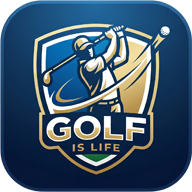
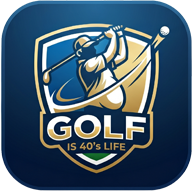
Add files via upload

diff --git a/index.html b/index.html
@@ -6,10 +6,10 @@
 <meta name="theme-color" content="#1a3a28">
 <meta name="apple-mobile-web-app-capable" content="yes">
 <meta name="apple-mobile-web-app-status-bar-style" content="black-translucent">
-<meta name="apple-mobile-web-app-title" content="Golf Is Life">
+<meta name="apple-mobile-web-app-title" content="Golf">
 <link rel="manifest" href="manifest.json">
-<link rel="apple-touch-icon" href="icon-192.png">
-<title>Golf Is Life</title>
+<link rel="apple-touch-icon" href="icon192.png">
+<title>Golf is 40's Life</title>
 <link href="https://fonts.googleapis.com/css2?family=Noto+Sans+KR:wght@300;400;500;600;700&family=Playfair+Display:wght@500;700&display=swap" rel="stylesheet">
 <script src="https://cdn.jsdelivr.net/npm/chart.js@4.4.0/dist/chart.umd.min.js"></script>
 <style>
@@ -31,7 +31,7 @@
 .s-birdie{color:#1d9e75!important;font-weight:700!important}.s-par{color:var(--text)!important}.s-bogey{color:var(--gold)!important}.s-dbl{color:var(--danger)!important}.s-eagle{color:#185fa5!important;font-weight:700!important}
 .pbox{border:1px solid var(--border);border-radius:var(--r);padding:12px;margin-bottom:8px;background:#fafdf9}.pbox-top{display:flex;align-items:center;gap:8px;margin-bottom:8px}.pbox-av{width:28px;height:28px;border-radius:50%;display:flex;align-items:center;justify-content:center;font-size:11px;font-weight:500;color:#fff;flex-shrink:0}.pbox-name{font-size:13px;font-weight:500;flex:1}.pbox-mode{display:flex;gap:4px;margin-bottom:8px}.pbox-mode button{flex:1}
 .ac-wrap{position:relative}.ac-list{position:absolute;top:100%;left:0;right:0;background:var(--card);border:1px solid var(--border);border-radius:var(--rs);max-height:150px;overflow-y:auto;z-index:50;display:none}.ac-list.on{display:block}.ac-item{padding:8px 12px;font-size:12px;cursor:pointer}.ac-item:hover{background:var(--g100)}
-.sgrid{display:grid;grid-template-columns:1fr 1fr;gap:8px;margin-bottom:10px}.sbox{background:var(--card);border:1px solid var(--border);border-radius:var(--r);padding:12px;text-align:center}.sbox .sv{font-size:20px;font-weight:500;color:var(--g700)}.sbox .sl{font-size:10px;color:var(--sub);margin-top:1px}.chart-box{background:var(--card);border:1px solid var(--border);border-radius:var(--r);padding:14px;margin-bottom:10px}.chart-box .ct-t{font-size:12px;font-weight:500;margin-bottom:8px;color:var(--g800)}canvas{max-height:240px}
+.sgrid{display:grid;grid-template-columns:1fr 1fr;gap:8px;margin-bottom:10px}.sgrid3{display:grid;grid-template-columns:1fr 1fr 1fr;gap:8px;margin-bottom:10px}.sbox{background:var(--card);border:1px solid var(--border);border-radius:var(--r);padding:12px;text-align:center}.sbox .sv{font-size:20px;font-weight:500;color:var(--g700)}.sbox .sl{font-size:10px;color:var(--sub);margin-top:1px}.chart-box{background:var(--card);border:1px solid var(--border);border-radius:var(--r);padding:14px;margin-bottom:10px}.chart-box .ct-t{font-size:12px;font-weight:500;margin-bottom:8px;color:var(--g800)}canvas{max-height:240px}
 .det-hdr{display:flex;justify-content:space-between;align-items:center;margin-bottom:12px}.det-back{background:none;border:none;font-size:12px;color:var(--g600);cursor:pointer;font-family:'Noto Sans KR'}
 .toast{position:fixed;bottom:24px;left:50%;transform:translateX(-50%);background:var(--g800);color:#fff;padding:10px 20px;border-radius:24px;font-size:12px;z-index:300;opacity:0;transition:opacity .3s;pointer-events:none}.toast.on{opacity:1}
 .ld{display:flex;align-items:center;justify-content:center;padding:40px;color:var(--sub);font-size:12px;flex-direction:column;gap:10px}.golf-ball{width:36px;height:36px;border-radius:50%;background:radial-gradient(circle at 35% 35%,#fff 0%,#f0f0e8 40%,#ddd 100%);box-shadow:inset -3px -3px 6px rgba(0,0,0,.1),1px 2px 4px rgba(0,0,0,.15);position:relative;animation:bounce .6s ease-in-out infinite}.golf-ball::after{content:'';position:absolute;top:30%;left:25%;width:50%;height:40%;background:radial-gradient(circle,rgba(0,0,0,.06) 1px,transparent 1px);background-size:5px 5px;border-radius:50%}@keyframes bounce{0%,100%{transform:translateY(0)}50%{transform:translateY(-12px)}}
@@ -41,12 +41,12 @@
 </style>
 </head>
 <body>
-<div class="auth-wrap" id="auth"><div class="auth-box"><div class="auth-logo"><div class="ic" style="width:56px;height:56px;font-size:24px;background:linear-gradient(135deg,#1a3a28,#27654a);color:#c9a84c;letter-spacing:-1px;font-family:'Playfair Display',serif;font-weight:700">G</div><h1 style="font-size:20px;letter-spacing:2px">GOLF IS LIFE</h1><p>라운딩 기록 · 스코어 · 통계</p></div>
+<div class="auth-wrap" id="auth"><div class="auth-box"><div class="auth-logo"><img src="icon-192.png" style="width:72px;height:72px;border-radius:16px;margin-bottom:8px" onerror="this.style.display='none'"><h1 style="font-size:18px;letter-spacing:2px;font-variant-numeric:lining-nums">GOLF IS 40's LIFE</h1><p>라운딩 기록 · 스코어 · 통계</p></div>
 <div id="loginF"><div id="loginErr" class="auth-err hide"></div><div class="fg"><label>아이디</label><input id="lId" type="text" placeholder="아이디"></div><div class="fg"><label>비밀번호</label><input id="lPw" type="password" placeholder="비밀번호"></div><button class="auth-btn" onclick="doLogin()">로그인</button><div class="auth-sw">계정이 없으신가요? <a onclick="showReg()">회원가입</a></div></div>
 <div id="regF" class="hide"><div id="regErr" class="auth-err hide"></div><div class="fg"><label>아이디 (3자 이상)</label><input id="rId" type="text"></div><div class="fg"><label>비밀번호 (4자 이상)</label><input id="rPw" type="password"></div><div class="fg"><label>이름</label><input id="rNm" type="text" placeholder="표시 이름"></div><div class="fg"><label>멤버 연결</label><input id="rMem" type="text" placeholder="골프 멤버 이름 (예: 남기섭)"></div><button class="auth-btn" onclick="doReg()">회원가입</button><div class="auth-sw">이미 계정이 있으신가요? <a onclick="showLogin()">로그인</a></div></div></div></div>
 
 <div class="app" id="app">
-<div class="hdr"><div class="hdr-top"><div class="logo" onclick="loadData()" style="cursor:pointer"><div class="ic" style="background:linear-gradient(135deg,var(--gold),#e8d48b);font-family:'Playfair Display',serif;font-weight:700;color:var(--g800);font-size:14px">G</div><h1 style="font-size:15px;letter-spacing:1.5px">GOLF IS LIFE</h1></div><div class="hdr-r"><div class="ubadge"><div class="dot"></div><span id="uname"></span></div><button class="ibtn" onclick="doLogout()">⏻</button></div></div>
+<div class="hdr"><div class="hdr-top"><div class="logo" onclick="loadData()" style="cursor:pointer"><img src="icon-192.png" style="width:30px;height:30px;border-radius:6px"><h1 style="font-size:14px;letter-spacing:1px;font-variant-numeric:lining-nums">GOLF IS 40's LIFE</h1></div><div class="hdr-r"><div class="ubadge"><div class="dot"></div><span id="uname"></span></div><button class="ibtn" onclick="doLogout()">⏻</button></div></div>
 <div class="tabs"><button class="tab on" data-t="list" onclick="goTab('list')">📋 기록</button><button class="tab" data-t="add" onclick="goTab('add')">➕ 입력</button><button class="tab" data-t="stats" onclick="goTab('stats')">📊 통계</button></div></div>
 <div class="toast" id="toast"></div>
 <div class="loading-overlay" id="loadingOv"><div class="golf-ball"></div><p id="loadingMsg">저장중...</p></div>
@@ -61,7 +61,16 @@
 <div class="card"><div class="card-t" style="justify-content:space-between"><span>👥 참가자</span><button class="btn btn-s btn-sm" onclick="addPlayer()">+ 추가</button></div>
 <div id="participants"></div></div>
 <button class="btn btn-p btn-blk" onclick="saveRound()" style="padding:14px;font-size:14px" id="saveBtn">저장</button></div>
-<!-- 통계 --><div class="page" id="pg-stats"><div class="sgrid" id="statBoxes"></div><div class="chart-box"><div class="ct-t">📈 스코어 추이</div><canvas id="chTrend"></canvas></div><div class="chart-box"><div class="ct-t">⛳ 홀별 평균 오버파</div><canvas id="chHole"></canvas></div><div class="chart-box"><div class="ct-t">👥 동반자별 내 평균</div><canvas id="chBuddy"></canvas></div></div>
+<!-- 통계 --><div class="page" id="pg-stats">
+<div class="fbar"><select class="fsel" id="stYr" onchange="renderStats()"></select></div>
+<div class="sgrid3" id="statBoxes"></div>
+<div class="chart-box"><div class="ct-t">📈 스코어 추이</div><canvas id="chTrend"></canvas></div>
+<div class="chart-box"><div class="ct-t">🎯 스코어 분포</div><canvas id="chDist"></canvas></div>
+<div class="card" id="growthCard"></div>
+<div class="card" id="halfCard"></div>
+<div class="chart-box"><div class="ct-t">🏌 골프장별 내 평균</div><canvas id="chCourse"></canvas></div>
+<div id="vsCards"></div>
+</div>
 <!-- 상세 --><div class="page" id="pg-detail"><div class="det-hdr"><button class="det-back" onclick="goTab('list')">← 목록</button><div style="display:flex;gap:4px"><button class="btn btn-s btn-sm" onclick="editRound()">수정</button><button class="btn btn-d btn-sm" onclick="delRound()">삭제</button></div></div><div id="detContent"></div></div>
 <!-- 홀별 수정 --><div class="page" id="pg-editsc"><div class="det-hdr"><button class="det-back" onclick="showDetail(editScoreData?.score?.round_id)">← 돌아가기</button></div><div class="card"><div class="card-t">🏌 내 홀별 스코어 입력</div><div id="editScCard"></div><button class="btn btn-p btn-blk" style="margin-top:12px" onclick="saveMyScore()">저장</button></div></div>
 </div></div>
@@ -221,20 +230,103 @@ async function saveRound(){
     hideL();if(r.status==='ok'){toast(isEdit?'수정 완료!':'저장 완료!');initForm();await loadData();goTab('list')}else toast(r.message)}catch(e){hideL();toast('저장 실패')}}
 
 // ===== STATS =====
-function renderStats(){const m=mn();if(!m){$('statBoxes').innerHTML='<div class="empty">멤버 연결 후 이용 가능</div>';return}
-  const ms=D.scores.filter(s=>s.이름===m);if(!ms.length){$('statBoxes').innerHTML='<div class="empty">기록이 없습니다</div>';return}
+let stYear='전체';
+function renderStats(){
+  const m=mn();if(!m){$('statBoxes').innerHTML='<div class="empty">멤버 연결 후 이용 가능</div>';return}
+
+  // 연도 필터
+  const allMs=D.scores.filter(s=>s.이름===m);
+  const yrs=['전체',...new Set(allMs.map(s=>{const r=D.rounds.find(x=>x.round_id===s.round_id);return r?String(r.날짜||'').substring(0,4):''}).filter(Boolean))].sort((a,b)=>a==='전체'?-1:b==='전체'?1:b.localeCompare(a));
+  const sel=$('stYr');sel.innerHTML=yrs.map(y=>`<option value="${y}"${y===stYear?' selected':''}>${y==='전체'?'전체':y+'년'}</option>`).join('');
+  stYear=sel.value;
+
+  // 필터된 데이터
+  const ms=allMs.filter(s=>{if(stYear==='전체')return true;const r=D.rounds.find(x=>x.round_id===s.round_id);return r&&String(r.날짜||'').startsWith(stYear)});
+  if(!ms.length){$('statBoxes').innerHTML='<div class="empty">기록이 없습니다</div>';$('growthCard').innerHTML='';$('halfCard').innerHTML='';$('vsCards').innerHTML='';return}
+
   const tots=ms.map(s=>Number(s.total)).filter(v=>v>0),cnt=tots.length;
-  const avg=cnt?Math.round(tots.reduce((a,b)=>a+b,0)/cnt*10)/10:0,best=cnt?Math.min(...tots):'-';
-  let tpp=0;ms.forEach(s=>{const r=D.rounds.find(x=>x.round_id===s.round_id);if(r)tpp+=pp(r)});const avgpp=cnt?Math.round(tpp/cnt):0;
-  $('statBoxes').innerHTML=`<div class="sbox"><div class="sv">${cnt}</div><div class="sl">총 라운딩</div></div><div class="sbox"><div class="sv">${avg}</div><div class="sl">평균</div></div><div class="sbox"><div class="sv" style="color:var(--gold)">${best}</div><div class="sl">베스트</div></div><div class="sbox"><div class="sv" style="font-size:16px">${avgpp.toLocaleString()}</div><div class="sl">평균비용(1인)</div></div>`;
+  const avg=cnt?Math.round(tots.reduce((a,b)=>a+b,0)/cnt*10)/10:0;
+  const best=cnt?Math.min(...tots):'-',worst=cnt?Math.max(...tots):'-';
+  let tpp=0,totalCost=0;ms.forEach(s=>{const r=D.rounds.find(x=>x.round_id===s.round_id);if(r){const p=pp(r);tpp+=p;const n=gs(r.round_id).length||1;totalCost+=Number(r.필드비||0)+(Number(r.캐디비||0)+Number(r.카트비||0))/n}});
+  const avgpp=cnt?Math.round(tpp/cnt):0;
+
+  // 요약 박스 3x2
+  $('statBoxes').innerHTML=`
+    <div class="sbox"><div class="sv">${avg}</div><div class="sl">평균</div></div>
+    <div class="sbox"><div class="sv" style="color:var(--g500)">${best}</div><div class="sl">베스트</div></div>
+    <div class="sbox"><div class="sv" style="color:var(--danger)">${worst}</div><div class="sl">워스트</div></div>
+    <div class="sbox"><div class="sv">${cnt}</div><div class="sl">총 라운딩</div></div>
+    <div class="sbox"><div class="sv" style="font-size:16px">${avgpp.toLocaleString()}</div><div class="sl">평균비용(1인)</div></div>
+    <div class="sbox"><div class="sv" style="font-size:16px">${Math.round(totalCost).toLocaleString()}</div><div class="sl">총비용</div></div>`;
+
+  // 스코어 추이
   const td=ms.filter(s=>Number(s.total)>0).map(s=>{const r=D.rounds.find(x=>x.round_id===s.round_id);return{d:r?.날짜||'',t:Number(s.total)}}).sort((a,b)=>a.d.localeCompare(b.d));
   mkC('chTrend','line',{labels:td.map(x=>fd(x.d)),datasets:[{label:'스코어',data:td.map(x=>x.t),borderColor:'#2d8a5e',backgroundColor:'#2d8a5e20',tension:.3,pointRadius:4,fill:true}]},{plugins:{legend:{display:false}},scales:{y:{min:Math.min(...td.map(x=>x.t))-5}}});
-  const hs=Array(18).fill(0),hc=Array(18).fill(0);ms.forEach(s=>{for(let i=1;i<=18;i++){const v=s['h'+i];if(v!==''&&v!==undefined&&v!==null){hs[i-1]+=Number(v);hc[i-1]++}}});
-  const ha=hs.map((s,i)=>hc[i]?Math.round(s/hc[i]*10)/10:0);
-  mkC('chHole','bar',{labels:Array.from({length:18},(_,i)=>(i+1)+''),datasets:[{data:ha,backgroundColor:ha.map(v=>v<=0.5?'#2d8a5e':v<=1.5?'#c9a84c':'#d44040'),borderRadius:4}]},{plugins:{legend:{display:false}},scales:{y:{beginAtZero:true}}});
-  const bd={};ms.forEach(s=>{D.scores.filter(o=>o.round_id===s.round_id&&o.이름!==m).forEach(o=>{if(!bd[o.이름])bd[o.이름]={c:0,s:0};bd[o.이름].c++;bd[o.이름].s+=Number(s.total)})});
-  const be=Object.entries(bd).filter(([,v])=>v.c>0).sort((a,b)=>b[1].c-a[1].c);
-  if(be.length)mkC('chBuddy','bar',{labels:be.map(b=>b[0]),datasets:[{label:'내 평균',data:be.map(b=>Math.round(b[1].s/b[1].c*10)/10),backgroundColor:'#c9a84c',borderRadius:4},{label:'라운드수',data:be.map(b=>b[1].c),backgroundColor:'#2d8a5e',borderRadius:4}]},{indexAxis:'y',plugins:{legend:{position:'bottom',labels:{boxWidth:10,font:{size:10}}}}});
+
+  // 스코어 분포 도넛
+  const dist={70:0,80:0,90:0,100:0,110:0};tots.forEach(t=>{if(t<80)dist[70]++;else if(t<90)dist[80]++;else if(t<100)dist[90]++;else if(t<110)dist[100]++;else dist[110]++});
+  mkC('chDist','doughnut',{labels:['70대','80대','90대','100대','110+'],datasets:[{data:[dist[70],dist[80],dist[90],dist[100],dist[110]],backgroundColor:['#185fa5','#2d8a5e','#c9a84c','#e67e22','#d44040'],borderWidth:2}]},{plugins:{legend:{position:'bottom',labels:{boxWidth:12,font:{size:11}}}}});
+
+  // 최근 5 vs 이전 5
+  if(td.length>=5){
+    const recent=td.slice(-5).map(x=>x.t),prev=td.slice(-10,-5);
+    const rAvg=Math.round(recent.reduce((a,b)=>a+b,0)/recent.length*10)/10;
+    if(prev.length){
+      const pAvg=Math.round(prev.reduce((a,b)=>a+b,0)/prev.length*10)/10;
+      const diff=Math.round((rAvg-pAvg)*10)/10;
+      const better=diff<0;
+      $('growthCard').innerHTML=`<div class="card-t">📊 최근 성장</div>
+        <div style="display:flex;justify-content:space-around;text-align:center;margin-bottom:8px">
+          <div><div style="font-size:10px;color:var(--sub)">이전 ${prev.length}R</div><div style="font-size:20px;font-weight:600">${pAvg}</div></div>
+          <div style="font-size:24px;color:${better?'var(--g500)':'var(--danger)'};align-self:center">${better?'→':'→'}</div>
+          <div><div style="font-size:10px;color:var(--sub)">최근 5R</div><div style="font-size:20px;font-weight:600;color:${better?'var(--g500)':'var(--danger)'}">${rAvg}</div></div>
+        </div>
+        <div style="text-align:center;font-size:13px;font-weight:500;color:${better?'var(--g500)':'var(--danger)'}">${better?'🔥':'😅'} ${Math.abs(diff)}타 ${better?'개선!':'후퇴'}</div>`;
+    }else{
+      $('growthCard').innerHTML=`<div class="card-t">📊 최근 5R 평균</div><div style="text-align:center;font-size:24px;font-weight:600">${rAvg}</div>`;
+    }
+  }else $('growthCard').innerHTML='';
+
+  // 전반 vs 후반
+  let outSum=0,outCnt=0,inSum=0,inCnt=0;
+  ms.forEach(s=>{let o=0,oc=0,i=0,ic=0;
+    for(let h=1;h<=9;h++){const v=s['h'+h];if(v!==''&&v!==undefined&&v!==null){o+=Number(v);oc++}}
+    for(let h=10;h<=18;h++){const v=s['h'+h];if(v!==''&&v!==undefined&&v!==null){i+=Number(v);ic++}}
+    if(oc===9){outSum+=o;outCnt++}if(ic===9){inSum+=i;inCnt++}
+  });
+  if(outCnt&&inCnt){
+    const oAvg=Math.round(outSum/outCnt*10)/10,iAvg=Math.round(inSum/inCnt*10)/10;
+    const diff=Math.round((iAvg-oAvg)*10)/10;
+    $('halfCard').innerHTML=`<div class="card-t">⛳ 전반 vs 후반</div>
+      <div style="display:flex;justify-content:space-around;text-align:center;margin-bottom:8px">
+        <div><div style="font-size:10px;color:var(--sub)">전반 (OUT)</div><div style="font-size:20px;font-weight:600">${oAvg>0?'+':''}${oAvg}</div></div>
+        <div><div style="font-size:10px;color:var(--sub)">후반 (IN)</div><div style="font-size:20px;font-weight:600">${iAvg>0?'+':''}${iAvg}</div></div>
+      </div>
+      <div style="text-align:center;font-size:12px;color:var(--sub)">${diff>0?'후반에 평균 +'+diff+'타 더 잃음 😤':'전반이 평균 +'+Math.abs(diff)+'타 더 잃음'}</div>`;
+  }else $('halfCard').innerHTML='';
+
+  // 골프장별 평균
+  const cm={};ms.forEach(s=>{const r=D.rounds.find(x=>x.round_id===s.round_id);if(!r)return;const c=r.골프장||'-';if(!cm[c])cm[c]={s:0,c:0};cm[c].s+=Number(s.total);cm[c].c++});
+  const ce=Object.entries(cm).filter(([,v])=>v.c>0).sort((a,b)=>a[1].s/a[1].c-b[1].s/b[1].c);
+  if(ce.length)mkC('chCourse','bar',{labels:ce.map(c=>c[0].length>6?c[0].substring(0,6)+'…':c[0]),datasets:[{label:'평균',data:ce.map(c=>Math.round(c[1].s/c[1].c*10)/10),backgroundColor:ce.map((_,i)=>i===0?'#2d8a5e':'#c9a84c'),borderRadius:4}]},{indexAxis:'y',plugins:{legend:{display:false}},scales:{x:{min:Math.min(...ce.map(c=>c[1].s/c[1].c))-3}}});
+
+  // 1:1 전적
+  const vs={};ms.forEach(s=>{const rd=s.round_id;const myT=Number(s.total);if(!myT)return;
+    D.scores.filter(o=>o.round_id===rd&&o.이름!==m).forEach(o=>{const oT=Number(o.total);if(!oT)return;
+      if(!vs[o.이름])vs[o.이름]={w:0,l:0,d:0,cnt:0};vs[o.이름].cnt++;
+      if(myT<oT)vs[o.이름].w++;else if(myT>oT)vs[o.이름].l++;else vs[o.이름].d++})});
+  const ve=Object.entries(vs).sort((a,b)=>b[1].cnt-a[1].cnt);
+  if(ve.length){
+    $('vsCards').innerHTML='<div class="card"><div class="card-t">🏆 1:1 전적</div>'+ve.map(([name,v])=>{
+      const pct=v.cnt?Math.round(v.w/v.cnt*100):0;
+      const emoji=pct>=60?'🔥':pct>=40?'⚔':'💀';
+      return`<div style="display:flex;align-items:center;justify-content:space-between;padding:8px 0;border-bottom:1px solid var(--border)">
+        <div style="font-size:13px;font-weight:500">${emoji} vs ${name}</div>
+        <div style="font-size:12px;text-align:right"><span style="color:var(--g500);font-weight:600">${v.w}승</span> <span style="color:var(--danger);font-weight:600">${v.l}패</span>${v.d?' <span>'+v.d+'무</span>':''} <span style="color:var(--sub);font-size:10px">(${v.cnt}전 ${pct}%)</span></div>
+      </div>`}).join('')+'</div>';
+  }else $('vsCards').innerHTML='';
+}
+$('stYr').onchange=function(){stYear=this.value;renderStats()};
 }
 function mkC(id,type,data,opts={}){if(CH[id])CH[id].destroy();CH[id]=new Chart($(id).getContext('2d'),{type,data,options:{responsive:true,maintainAspectRatio:true,scales:{x:{grid:{display:false}},y:{grid:{color:'#eee'}}},...opts}})}
 
